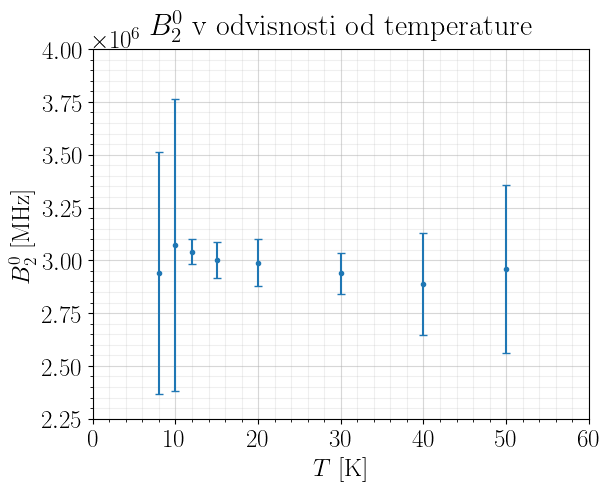
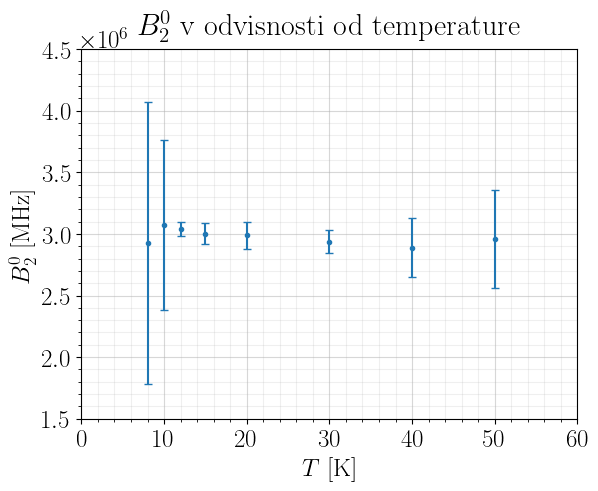
Popravljeni grafi parametrov za EPR

diff --git a/MatLab/easyspin-6.0.5/Sistemi/Fit_Parametri/Grafi_Parametrov.py b/MatLab/easyspin-6.0.5/Sistemi/Fit_Parametri/Grafi_Parametrov.py
@@ -176,11 +176,11 @@ CF2_0 = Podatki[1:].T[1]
 CF2_0_err_min = np.abs(Podatki[1:].T[2] - CF2_0)
 CF2_0_err_max = np.abs(Podatki[1:].T[3] - CF2_0)
 
-CF2_0_err = unp.uarray(CF2_0, (CF2_0_err_max + CF2_0_err_min) / 2)
+CF2_0_err = unp.uarray(CF2_0, (CF2_0_err_max + CF2_0_err_min) / (2 * 1.96))
 
 plt.errorbar(Temp, CF2_0, (CF2_0_err_min, CF2_0_err_max), linestyle='None', marker='.', capsize=3)
 graf_oblika(r"$B_2^0$ v odvisnosti od temperature", r"$T$ [K]", r"$B_2^0$ [MHz]", legenda=0)
-# plt.savefig(r"MatLab\easyspin-6.0.5\Sistemi\Fit_Parametri\Grafi\CF2_0.png", bbox_inches='tight', pad_inches=0.1)
+plt.savefig(r"MatLab\easyspin-6.0.5\Sistemi\Fit_Parametri\Grafi\CF2_0.png", bbox_inches='tight', pad_inches=0.1)
 plt.show()
 
 ######################################################
@@ -191,11 +191,11 @@ CF4_4 = Podatki[1:].T[4]
 CF4_4_err_min = np.abs(Podatki[1:].T[5] - CF4_4)
 CF4_4_err_max = np.abs(Podatki[1:].T[6] - CF4_4)
 
-CF4_4_err = unp.uarray(CF4_4, (CF4_4_err_min + CF4_4_err_max) / 2)
+CF4_4_err = unp.uarray(CF4_4, (CF4_4_err_min + CF4_4_err_max) / (2 * 1.96))
 
 plt.errorbar(Temp, CF4_4, (CF4_4_err_min, CF4_4_err_max), linestyle='None', marker='.', capsize=3)
 graf_oblika(r"$B_4^4$ v odvisnosti od temperature", r"$T$ [K]", r"$B_4^4$ [MHz]", legenda=0)
-# plt.savefig(r"MatLab\easyspin-6.0.5\Sistemi\Fit_Parametri\Grafi\CF4_4.png", bbox_inches='tight', pad_inches=0.1)
+plt.savefig(r"MatLab\easyspin-6.0.5\Sistemi\Fit_Parametri\Grafi\CF4_4.png", bbox_inches='tight', pad_inches=0.1)
 plt.show()
 
 ######################################################
@@ -206,11 +206,11 @@ CF4_0 = Podatki[1:].T[7]
 CF4_0_err_min = np.abs(Podatki[1:].T[8] - CF4_0)
 CF4_0_err_max = np.abs(Podatki[1:].T[9] - CF4_0)
 
-CF4_0_err = unp.uarray(CF4_0, (CF4_0_err_min + CF4_0_err_max) / 2)
+CF4_0_err = unp.uarray(CF4_0, (CF4_0_err_min + CF4_0_err_max) / (2 * 1.96))
 
 plt.errorbar(Temp, CF4_0, (CF4_0_err_min, CF4_0_err_max), linestyle='None', marker='.', capsize=3)
 graf_oblika(r"$B_4^0$ v odvisnosti od temperature", r"$T$ [K]", r"$B_4^0$ [MHz]", legenda=0)
-# plt.savefig(r"MatLab\easyspin-6.0.5\Sistemi\Fit_Parametri\Grafi\CF4_0.png", bbox_inches='tight', pad_inches=0.1)
+plt.savefig(r"MatLab\easyspin-6.0.5\Sistemi\Fit_Parametri\Grafi\CF4_0.png", bbox_inches='tight', pad_inches=0.1)
 plt.show()
 
 ######################################################
@@ -221,11 +221,11 @@ CF6_4 = Podatki[1:].T[10]
 CF6_4_err_min = np.abs(Podatki[1:].T[11] - CF6_4)
 CF6_4_err_max = np.abs(Podatki[1:].T[12] - CF6_4)
 
-CF6_4_err = unp.uarray(CF6_4, (CF6_4_err_min + CF6_4_err_max) / 2)
+CF6_4_err = unp.uarray(CF6_4, (CF6_4_err_min + CF6_4_err_max) / (2 * 1.96))
 
 plt.errorbar(Temp, CF6_4, (CF6_4_err_min, CF6_4_err_max), linestyle='None', marker='.', capsize=3)
 graf_oblika(r"$B_6^4$ v odvisnosti od temperature", r"$T$ [K]", r"$B_6^4$ [MHz]", legenda=0)
-# plt.savefig(r"MatLab\easyspin-6.0.5\Sistemi\Fit_Parametri\Grafi\CF6_4.png", bbox_inches='tight', pad_inches=0.1)
+plt.savefig(r"MatLab\easyspin-6.0.5\Sistemi\Fit_Parametri\Grafi\CF6_4.png", bbox_inches='tight', pad_inches=0.1)
 plt.show()
 
 ######################################################
@@ -236,11 +236,11 @@ CF6_0 = Podatki[1:].T[13]
 CF6_0_err_min = np.abs(Podatki[1:].T[14] - CF6_0)
 CF6_0_err_max = np.abs(Podatki[1:].T[15] - CF6_0)
 
-CF6_0_err = unp.uarray(CF6_0, (CF6_0_err_min + CF6_0_err_max) / 2)
+CF6_0_err = unp.uarray(CF6_0, (CF6_0_err_min + CF6_0_err_max) / (2 * 1.96))
 
 plt.errorbar(Temp, CF6_0, (CF6_0_err_min, CF6_0_err_max), linestyle='None', marker='.', capsize=3)
 graf_oblika(r"$B_6^0$ v odvisnosti od temperature", r"$T$ [K]", r"$B_6^0$ [MHz]", legenda=0)
-# plt.savefig(r"MatLab\easyspin-6.0.5\Sistemi\Fit_Parametri\Grafi\CF6_0.png", bbox_inches='tight', pad_inches=0.1)
+plt.savefig(r"MatLab\easyspin-6.0.5\Sistemi\Fit_Parametri\Grafi\CF6_0.png", bbox_inches='tight', pad_inches=0.1)
 plt.show()
 
 ######################################################
@@ -251,42 +251,49 @@ HStr1 = Podatki[1:].T[16]
 HStr1_err_min = np.abs(Podatki[1:].T[17] - HStr1)
 HStr1_err_max = np.abs(Podatki[1:].T[18] - HStr1)
 
-HStr1_err = unp.uarray(HStr1, (HStr1_err_min + HStr1_err_max) / 2)
+HStr1_err = unp.uarray(HStr1, (HStr1_err_min + HStr1_err_max) / (2 * 1.96))
 
 plt.errorbar(Temp, HStr1, (HStr1_err_min, HStr1_err_max), linestyle='None', marker='.', capsize=3)
 graf_oblika(r"$HStrain_1$ v odvisnosti od temperature", r"$T$ [K]", r"$HStrain_1$ [MHz]", legenda=0)
-# plt.savefig(r"MatLab\easyspin-6.0.5\Sistemi\Fit_Parametri\Grafi\HStr_1.png", bbox_inches='tight', pad_inches=0.1)
+plt.savefig(r"MatLab\easyspin-6.0.5\Sistemi\Fit_Parametri\Grafi\HStr_1.png", bbox_inches='tight', pad_inches=0.1)
 plt.show()
 
 ######################################################
 
 
 ###HStr2
-HStr2 = Podatki[1:].T[16]
-HStr2_err_min = np.abs(Podatki[1:].T[17] - HStr2)
-HStr2_err_max = np.abs(Podatki[1:].T[18] - HStr2)
+HStr2 = Podatki[1:].T[19]
+HStr2_err_min = np.abs(Podatki[1:].T[20] - HStr2)
+HStr2_err_max = np.abs(Podatki[1:].T[21] - HStr2)
 
-HStr2_err = unp.uarray(HStr2, (HStr2_err_min + HStr2_err_max) / 2)
+HStr2_err = unp.uarray(HStr2, (HStr2_err_min + HStr2_err_max) / (2 * 1.96))
 
 plt.errorbar(Temp, HStr2, (HStr2_err_min, HStr2_err_max), linestyle='None', marker='.', capsize=3)
 graf_oblika(r"$HStrain_2$ v odvisnosti od temperature", r"$T$ [K]", r"$HStrain_2$ [MHz]", legenda=0)
-# plt.savefig(r"MatLab\easyspin-6.0.5\Sistemi\Fit_Parametri\Grafi\HStr_2.png", bbox_inches='tight', pad_inches=0.1)
+plt.savefig(r"MatLab\easyspin-6.0.5\Sistemi\Fit_Parametri\Grafi\HStr_2.png", bbox_inches='tight', pad_inches=0.1)
 plt.show()
 
 ######################################################
 
 
 ###HStr3
-HStr3 = Podatki[1:].T[19]
-HStr3_err_min = np.abs(Podatki[1:].T[20] - HStr3)
-HStr3_err_max = np.abs(Podatki[1:].T[21] - HStr3)
+HStr3 = Podatki[1:].T[22]
+HStr3_err_min = np.abs(Podatki[1:].T[23] - HStr3)
+HStr3_err_max = np.abs(Podatki[1:].T[24] - HStr3)
 
-HStr3_err = unp.uarray(HStr3, (HStr3_err_min + HStr3_err_max) / 2)
+HStr3_err = unp.uarray(HStr3, (HStr3_err_min + HStr3_err_max) / (2 * 1.96))
 
 plt.errorbar(Temp, HStr3, (HStr3_err_min, HStr3_err_max), linestyle='None', marker='.', capsize=3)
 graf_oblika(r"$HStrain_3$ v odvisnosti od temperature", r"$T$ [K]", r"$HStrain_3$ [MHz]", legenda=0)
-# plt.savefig(r"MatLab\easyspin-6.0.5\Sistemi\Fit_Parametri\Grafi\HStr_3.png", bbox_inches='tight', pad_inches=0.1)
+plt.savefig(r"MatLab\easyspin-6.0.5\Sistemi\Fit_Parametri\Grafi\HStr_3.png", bbox_inches='tight', pad_inches=0.1)
 plt.show()
 
 
 print("CF2_0: ", obtezeno_povprecje(CF2_0_err))
+print("CF4_4: ", obtezeno_povprecje(CF4_4_err))
+print("CF4_0: ", obtezeno_povprecje(CF4_0_err))
+print("CF6_4: ", obtezeno_povprecje(CF6_4_err))
+print("CF6_0: ", obtezeno_povprecje(CF6_0_err))
+print("HStr1: ", obtezeno_povprecje(HStr1_err))
+print("HStr2: ", np.average(HStr2))
+print("HStr3: ", obtezeno_povprecje(HStr3_err))
